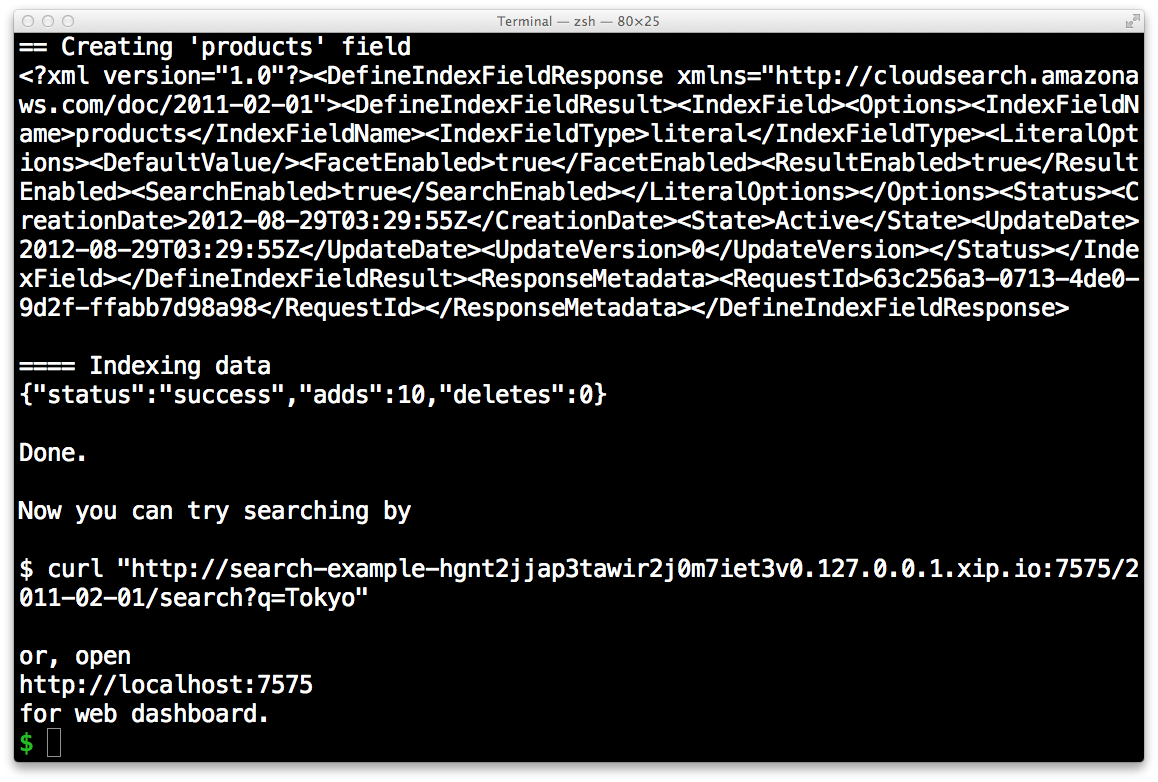
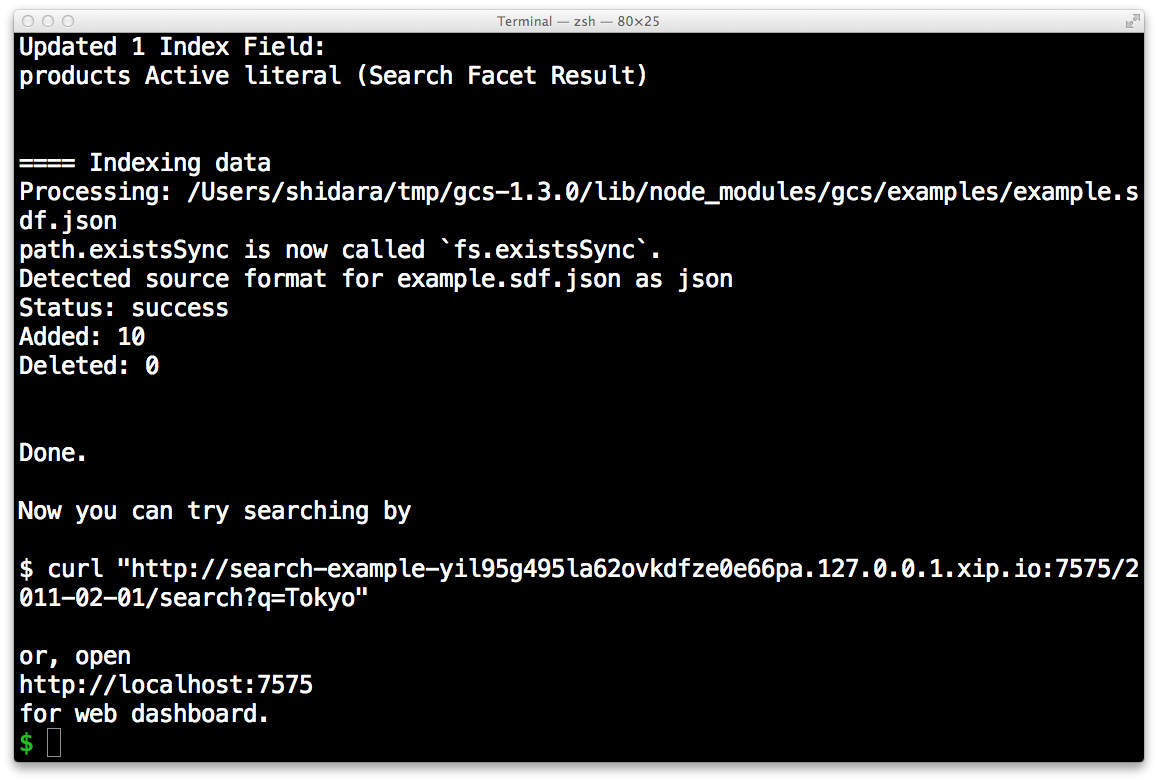
Use gcs-import-examples instead of -http

Changed region(s): [[0.0, 0.0307, 0.9948, 0.5217], [0.3731, 0.7059, 0.715, 0.7673]]

diff --git a/docs/tutorial/index.md b/docs/tutorial/index.md
@@ -140,9 +140,9 @@ Groonga CloudSearch server listens at
 
 Groonga CloudSearch has a command to import example documents for simple
 search API, because the search API is described before document registration
-API. Use another terminal and execute the command `gcs-import-examples-http`:
+API. Use another terminal and execute the command `gcs-import-examples`:
 
-    $ gcs-import-examples-http
+    $ gcs-import-examples
 
 If you see
 
